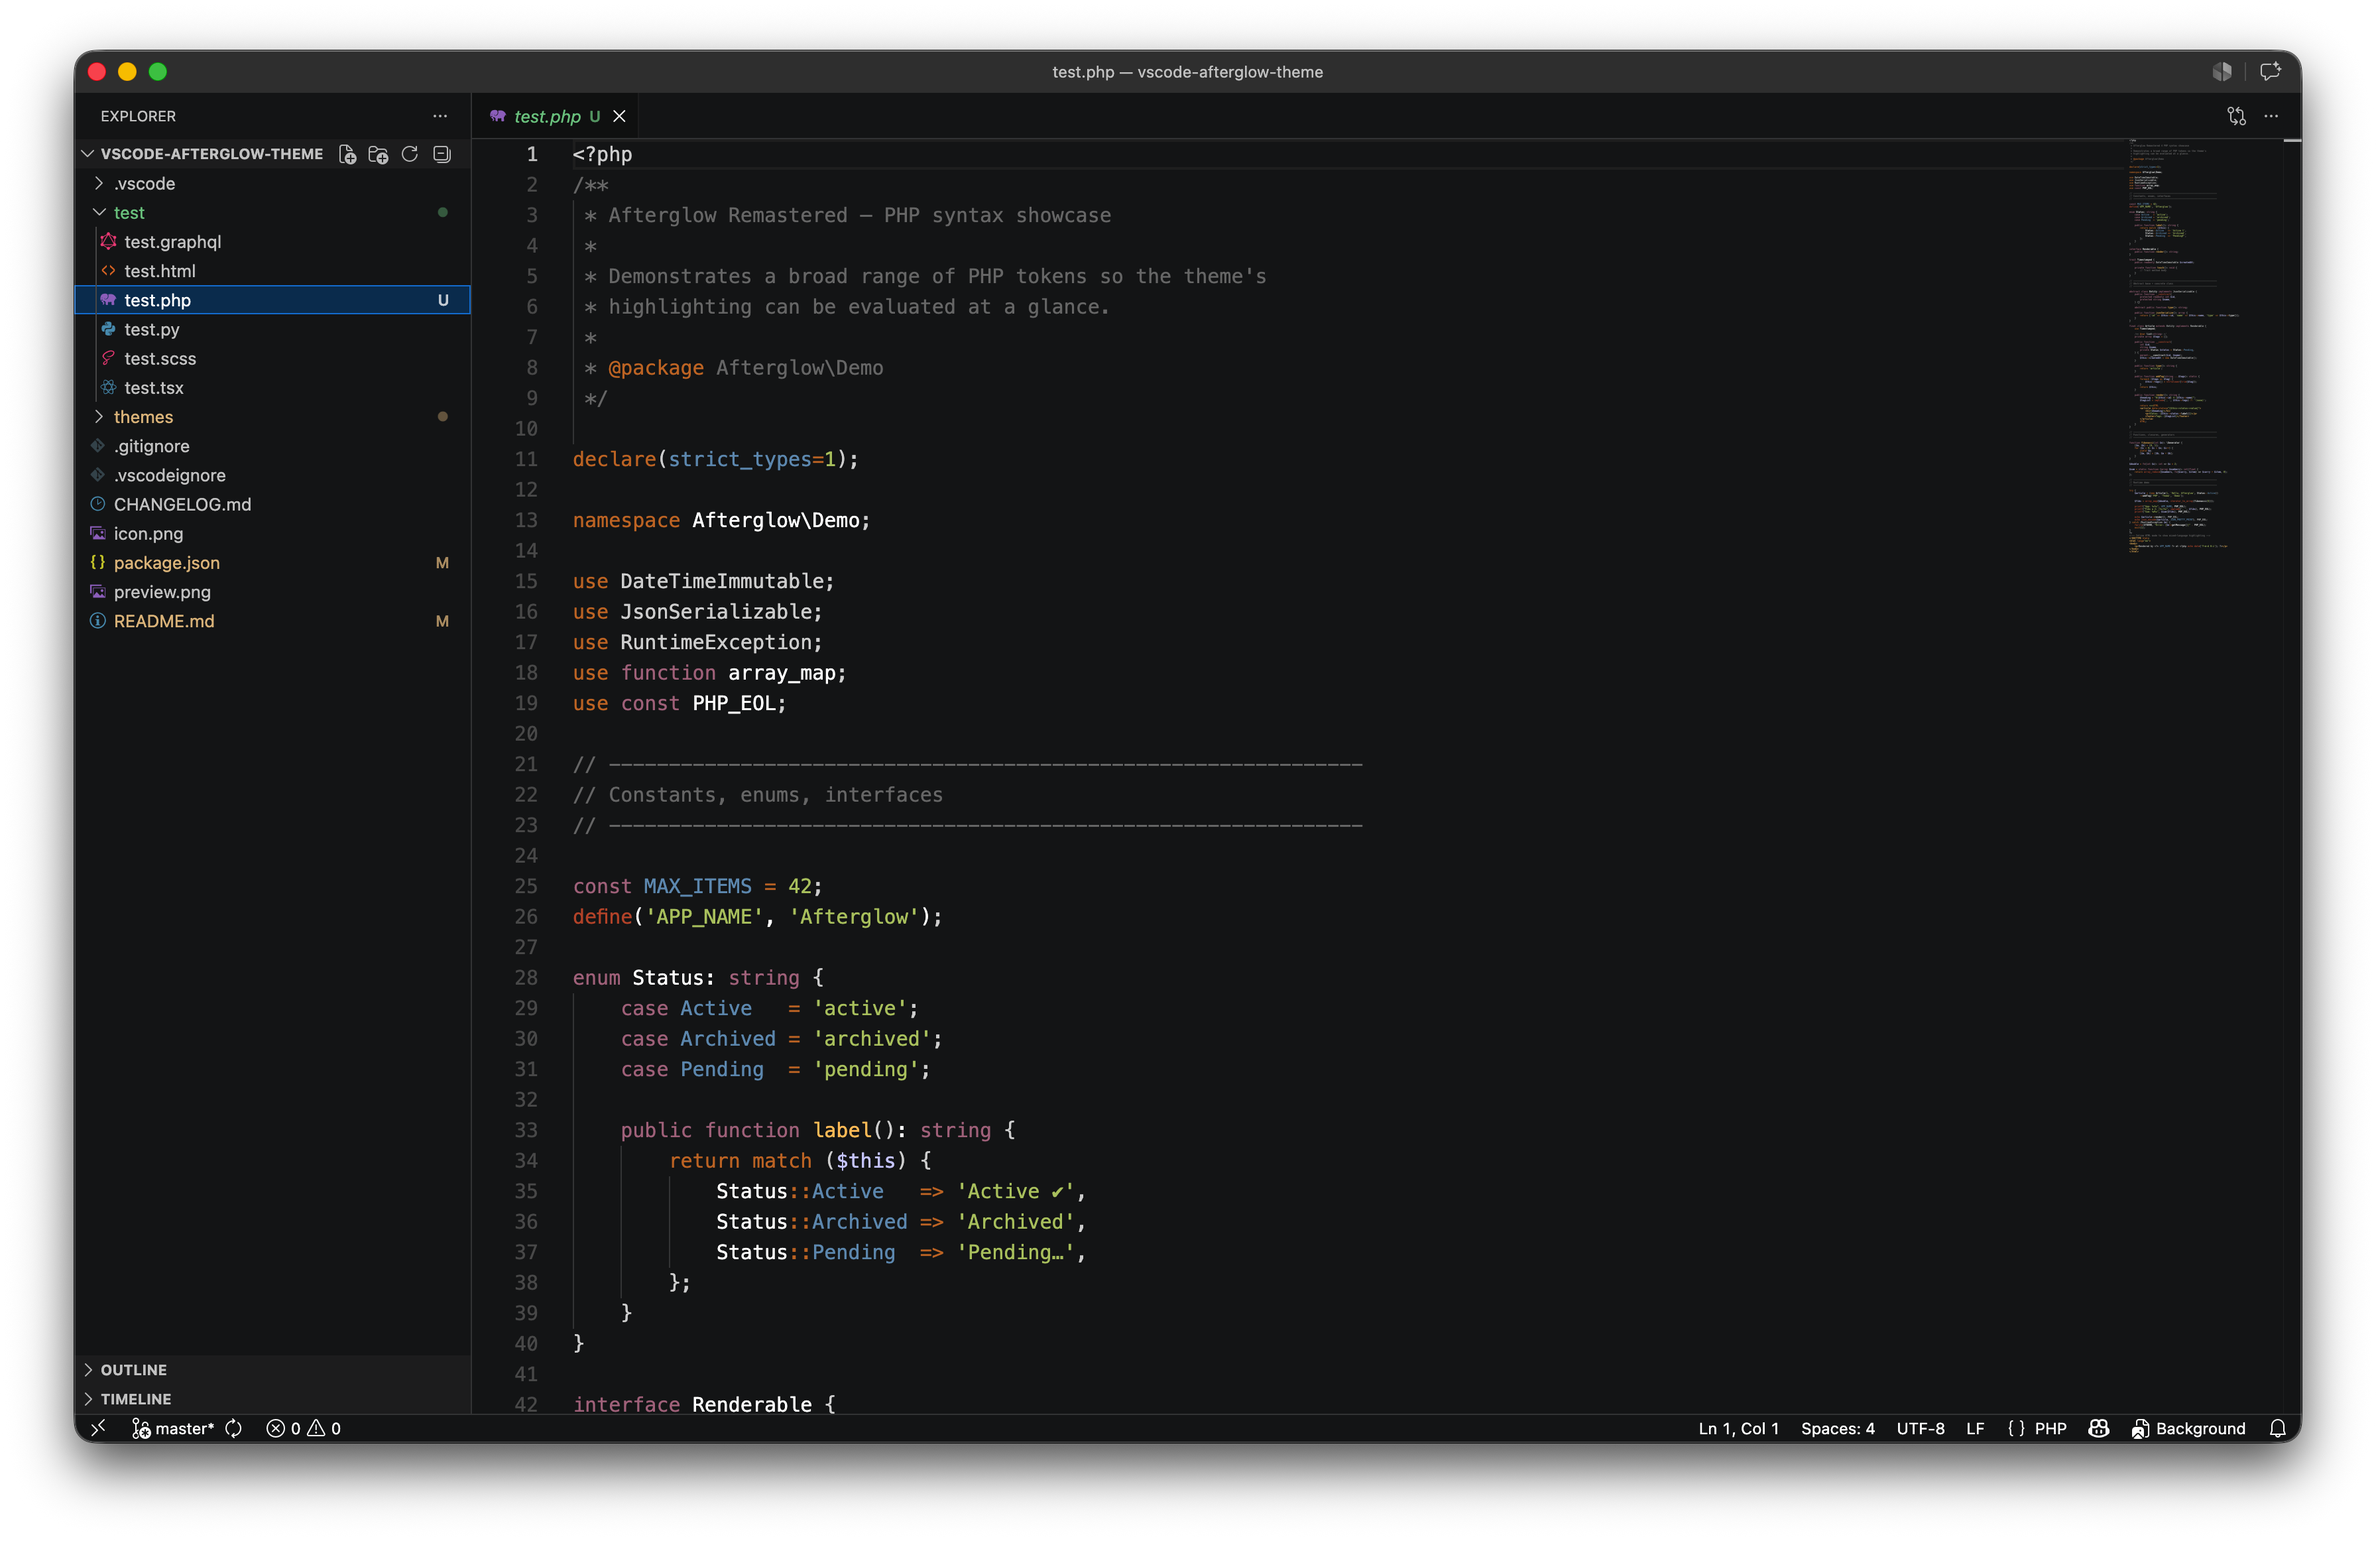
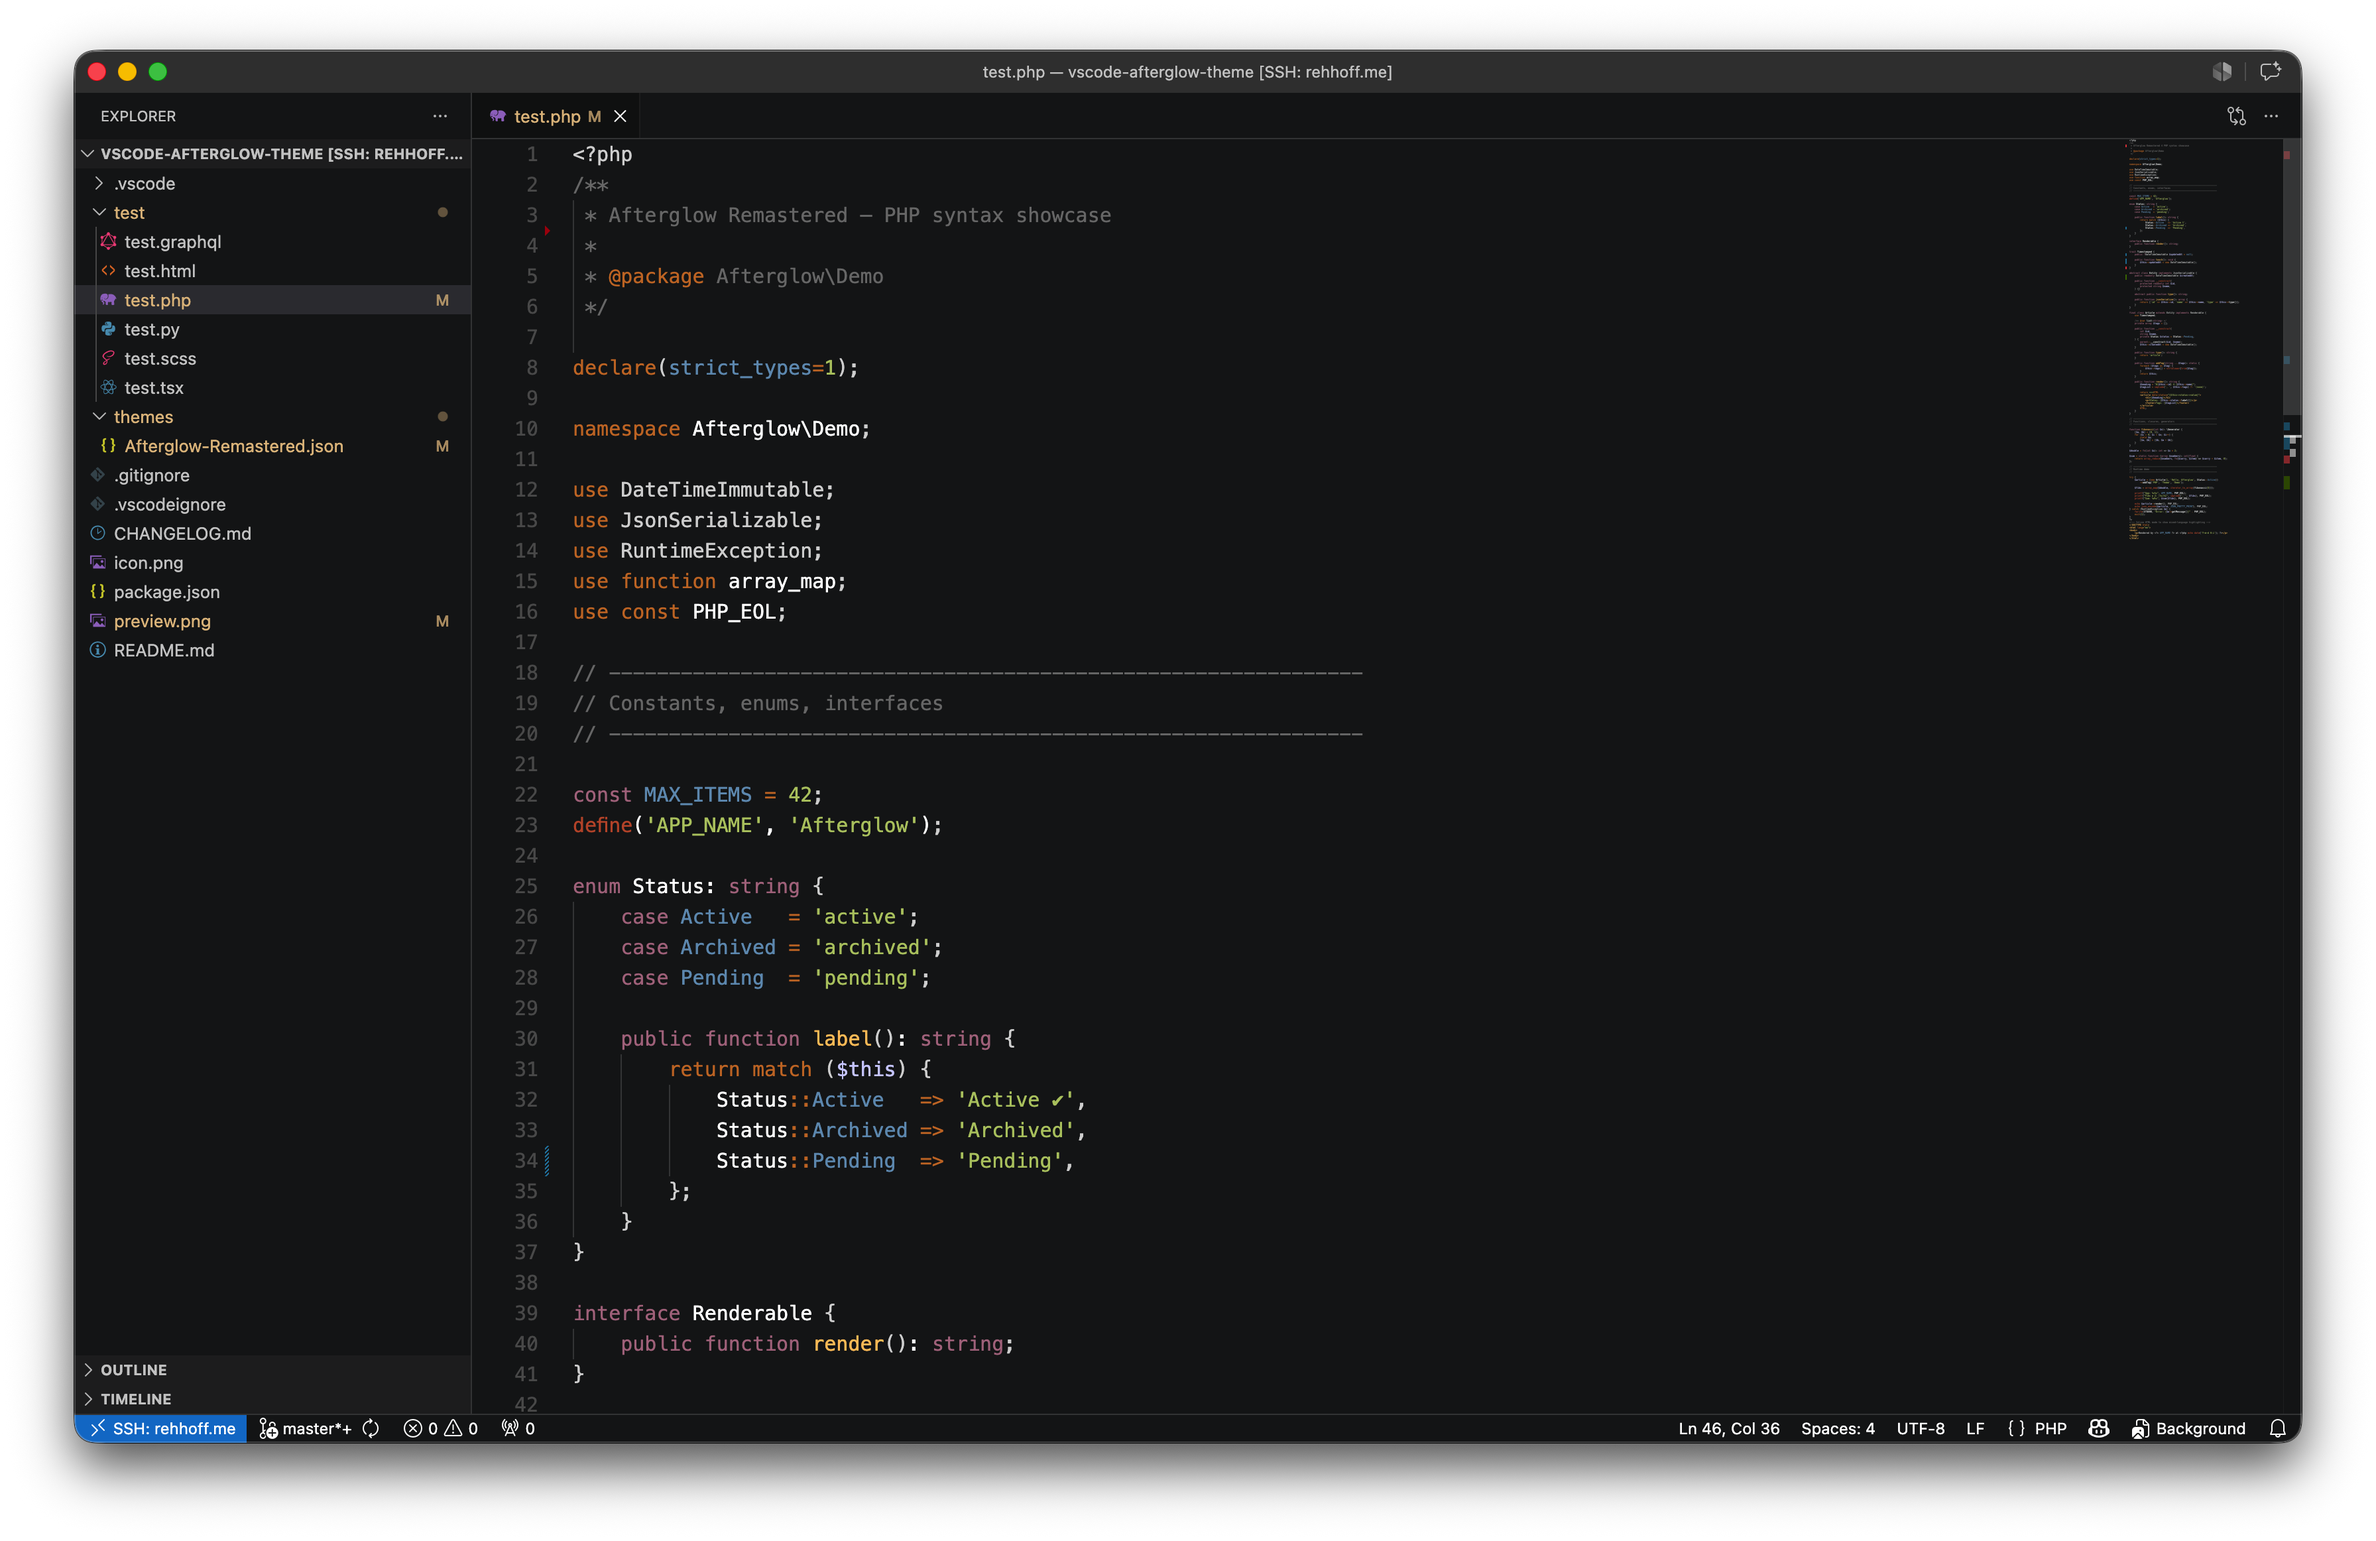
Updates

diff --git a/test/test.php b/test/test.php
@@ -2,9 +2,6 @@
 /**
  * Afterglow Remastered — PHP syntax showcase
  *
- * Demonstrates a broad range of PHP tokens so the theme's
- * highlighting can be evaluated at a glance.
- *
  * @package Afterglow\Demo
  */
 
@@ -34,7 +31,7 @@ enum Status: string {
         return match ($this) {
             Status::Active   => 'Active ✔',
             Status::Archived => 'Archived',
-            Status::Pending  => 'Pending…',
+            Status::Pending  => 'Pending',
         };
     }
 }
@@ -44,18 +41,16 @@ interface Renderable {
 }
 
 trait Timestamped {
-    public readonly DateTimeImmutable $createdAt;
+    public ?DateTimeImmutable $updatedAt = null;
 
-    private function touch(): void {
-        // Trait method body
+    public function touch(): void {
+        $this->updatedAt = new DateTimeImmutable();
     }
 }
 
-// ---------------------------------------------------------------
-// Abstract base + concrete class
-// ---------------------------------------------------------------
-
 abstract class Entity implements JsonSerializable {
+    public readonly DateTimeImmutable $createdAt;
+
     public function __construct(
         protected readonly int $id,
         protected string $name,
